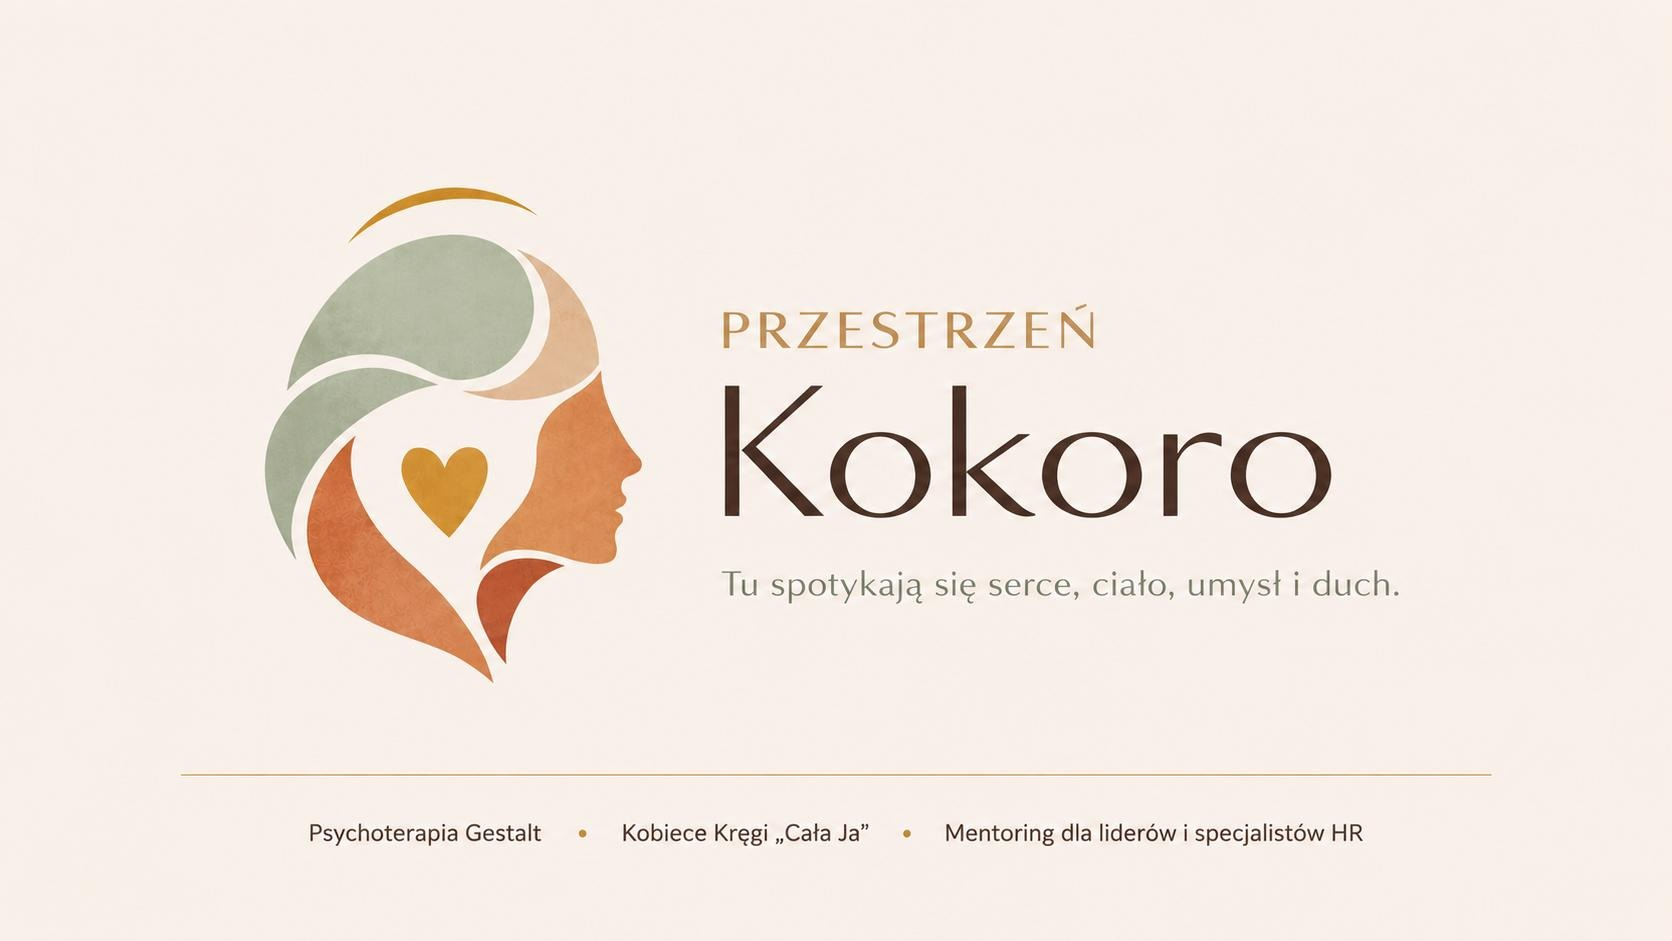
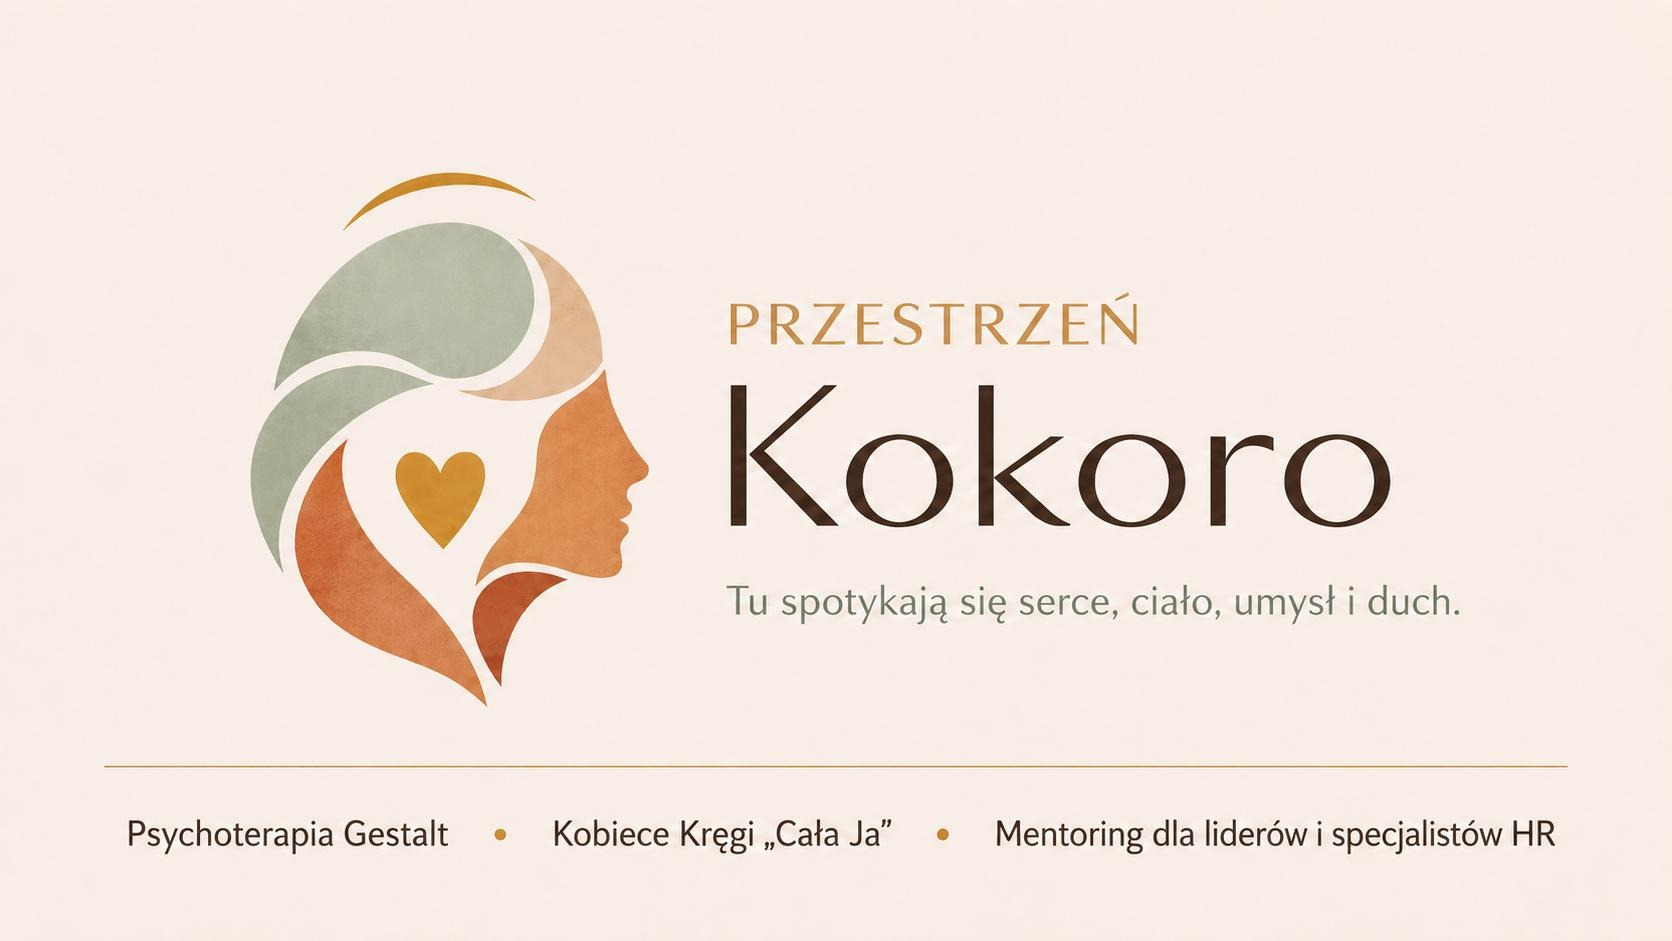
Dopasuj tło sekcji hero do nowej grafiki nagłówka
Po podmianie naglowek.jpg tło #F9F0EB przestało pasować i na krawędzi
grafiki był widoczny szew. Nowy kolor #F8EDE9 to mediana ~1740 pikseli
z ramki wzdłuż czterech krawędzi JPEG-a; rozrzut RGB między rogami
a środkami krawędzi to [2,3,4], czyli tło jest jednolite i jeden kolor
wystarcza.

Zmierzone po zmianie: tło sekcji i wnętrze grafiki dają identyczne
#F8EDE9 przy 1440px i 375px.

diff --git a/index.html b/index.html
@@ -125,7 +125,7 @@ html { scroll-behavior: smooth; scroll-padding-top: 88px; }
   <a href="#kontakt" class="nav-cta h1" style="color: #FAF6EF; background: #7E8C6A; padding: 9px 18px; letter-spacing: 0.08em; font-size: clamp(12px, 1.3vw, 13px); text-transform: uppercase; white-space: nowrap">Kontakt</a>
 </nav>
 
-<header id="hero" data-screen-label="Hero" style="display: flex; flex-direction: column; align-items: center; text-align: center; gap: 30px; padding: 70px 6vw 88px; background: #F9F0EB">
+<header id="hero" data-screen-label="Hero" style="display: flex; flex-direction: column; align-items: center; text-align: center; gap: 30px; padding: 70px 6vw 88px; background: #F8EDE9">
   <img src="assets/naglowek.jpg" alt="Przestrzeń Kokoro — tu spotykają się serce, ciało, umysł i duch. Psychoterapia Gestalt, Kobiece Kręgi „Cała Ja”, Mentoring" style="width: min(720px, 90vw); display: block">
   
   <div style="display: flex; flex-wrap: wrap; gap: 26px; align-items: center; justify-content: center">

diff --git a/README.md b/README.md
@@ -54,7 +54,7 @@ Paleta chłodnego kamienia i szałwii.
 | Rola | Hex |
 |---|---|
 | tło bazowe (krem) | `#FAF6EF` |
-| tło hero | `#F9F0EB` (dopasowane do tła grafiki nagłówka) |
+| tło hero | `#F8EDE9` (mediana krawędzi `naglowek.jpg` — po podmianie grafiki spróbkuj ponownie) |
 | tło sekcji przemiennych | `#EFE9DD` |
 | tło Kręgów i Kontaktu (szałwia) | `#E4E8DB` |
 | tekst główny | `#33322D` |
